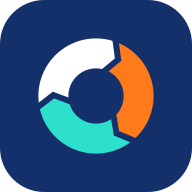
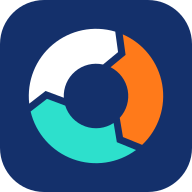
Icônes installées apps360 et Backoffice : symbole à 70 % pour les deux ; bouclier du Backoffice en bas à gauche, à cheval sur l'extérieur, orange sur turquoise ; version 2

Changed region(s): [[0.125, 0.125, 0.875, 0.875]]

diff --git a/app/admin/layout.jsx b/app/admin/layout.jsx
@@ -4,7 +4,7 @@ export const metadata = {
   robots: { index: false, follow: false },
   // installable à part (Android : « Installer l'appli ») ; icône apps360 + bouclier
   manifest: "/manifest-admin.json",
-  icons: { icon: "/icon-admin.svg", apple: "/icons/admin-180.png" },
+  icons: { icon: "/icon-admin-favicon.svg", apple: "/icons/admin-180.png?v=2" },
   appleWebApp: { capable: true, title: "Backoffice" },
 };
 

diff --git a/app/layout.jsx b/app/layout.jsx
@@ -24,7 +24,7 @@ export const metadata = {
       { url: "/icon-apps360.svg", type: "image/svg+xml" },
     ],
     shortcut: "/favicon.ico",
-    apple: "/apple-touch-icon.png",
+    apple: "/apple-touch-icon.png?v=2",
   },
   openGraph: {
     type: "website",

diff --git a/brand/scripts/brand.py b/brand/scripts/brand.py
@@ -75,7 +75,7 @@ for pal,name in [('clair','apps360-symbole'),('sombre','apps360-symbole-fond-som
     save(f'{O}/symbole/{name}.svg', svg_doc(sym_group(PAL[pal]['sym']),(0,0,100,100),0,title='apps360 symbole'))
 # --- icône d'app : carré arrondi bleu nuit ---
 icon=('<?xml version="1.0" encoding="UTF-8"?>\n<svg xmlns="http://www.w3.org/2000/svg" viewBox="0 0 100 100" width="512" height="512"><title>apps360</title>'
-      '<rect width="100" height="100" rx="23" fill="#14306B"/>'+sym_group(PAL['sombre']['sym'],20,20,60)+'</svg>\n')
+      '<rect width="100" height="100" rx="23" fill="#14306B"/>'+sym_group(PAL['sombre']['sym'],15,15,70)+'</svg>\n')
 save(f'{O}/icones/apps360-icone.svg', icon)
 # favicon : symbole à 86 % pour rester lisible à 16 / 32 px (les icônes d'écran d'accueil gardent leur marge)
 fav=('<?xml version="1.0" encoding="UTF-8"?>\n<svg xmlns="http://www.w3.org/2000/svg" viewBox="0 0 100 100" width="512" height="512"><title>apps360</title>'
@@ -83,10 +83,10 @@ fav=('<?xml version="1.0" encoding="UTF-8"?>\n<svg xmlns="http://www.w3.org/2000
 save(f'{O}/icones/apps360-favicon.svg', fav)
 # icône pleine (sans arrondi) pour les plateformes qui arrondissent elles-mêmes (iOS, Android maskable)
 full=('<?xml version="1.0" encoding="UTF-8"?>\n<svg xmlns="http://www.w3.org/2000/svg" viewBox="0 0 100 100" width="512" height="512"><title>apps360</title>'
-      '<rect width="100" height="100" fill="#14306B"/>'+sym_group(PAL['sombre']['sym'],22,22,56)+'</svg>\n')
+      '<rect width="100" height="100" fill="#14306B"/>'+sym_group(PAL['sombre']['sym'],15,15,70)+'</svg>\n')
 save(f'{O}/icones/apps360-icone-carree.svg', full)
 # --- avatar réseaux (carré plein, le réseau découpe le rond) ; symbole à 70 % : remplit bien le rond ---
-save(f'{O}/reseaux/apps360-avatar.svg', full.replace('22,22,56','0,0,0'))
+save(f'{O}/reseaux/apps360-avatar.svg', full)
 av=('<?xml version="1.0" encoding="UTF-8"?>\n<svg xmlns="http://www.w3.org/2000/svg" viewBox="0 0 100 100" width="1080" height="1080"><title>apps360</title>'
     '<rect width="100" height="100" fill="#14306B"/>'+sym_group(PAL['sombre']['sym'],15,15,70)+'</svg>\n')
 save(f'{O}/reseaux/apps360-avatar.svg', av)
